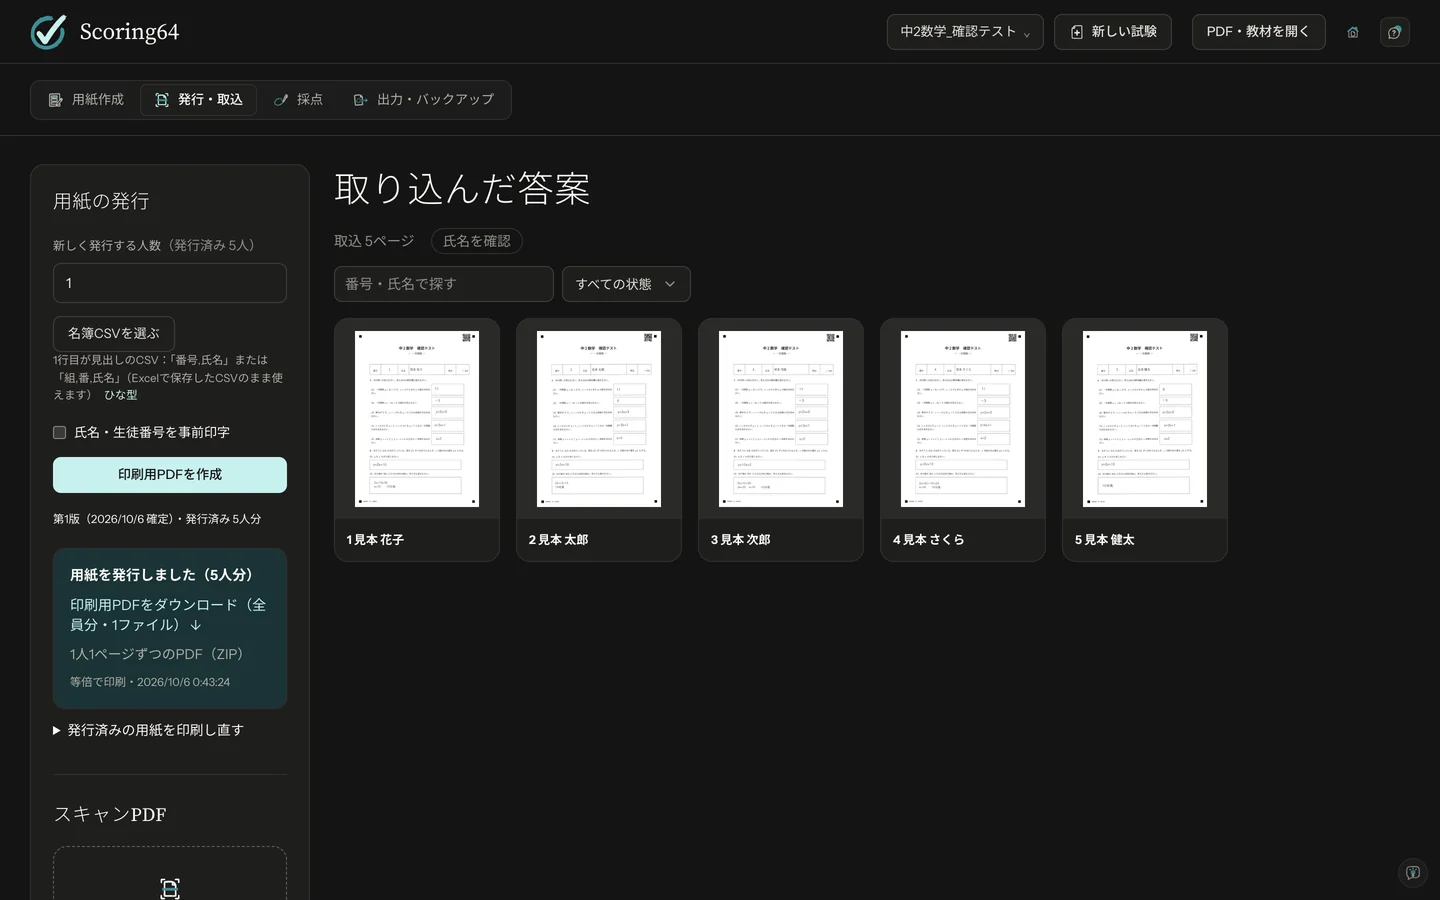
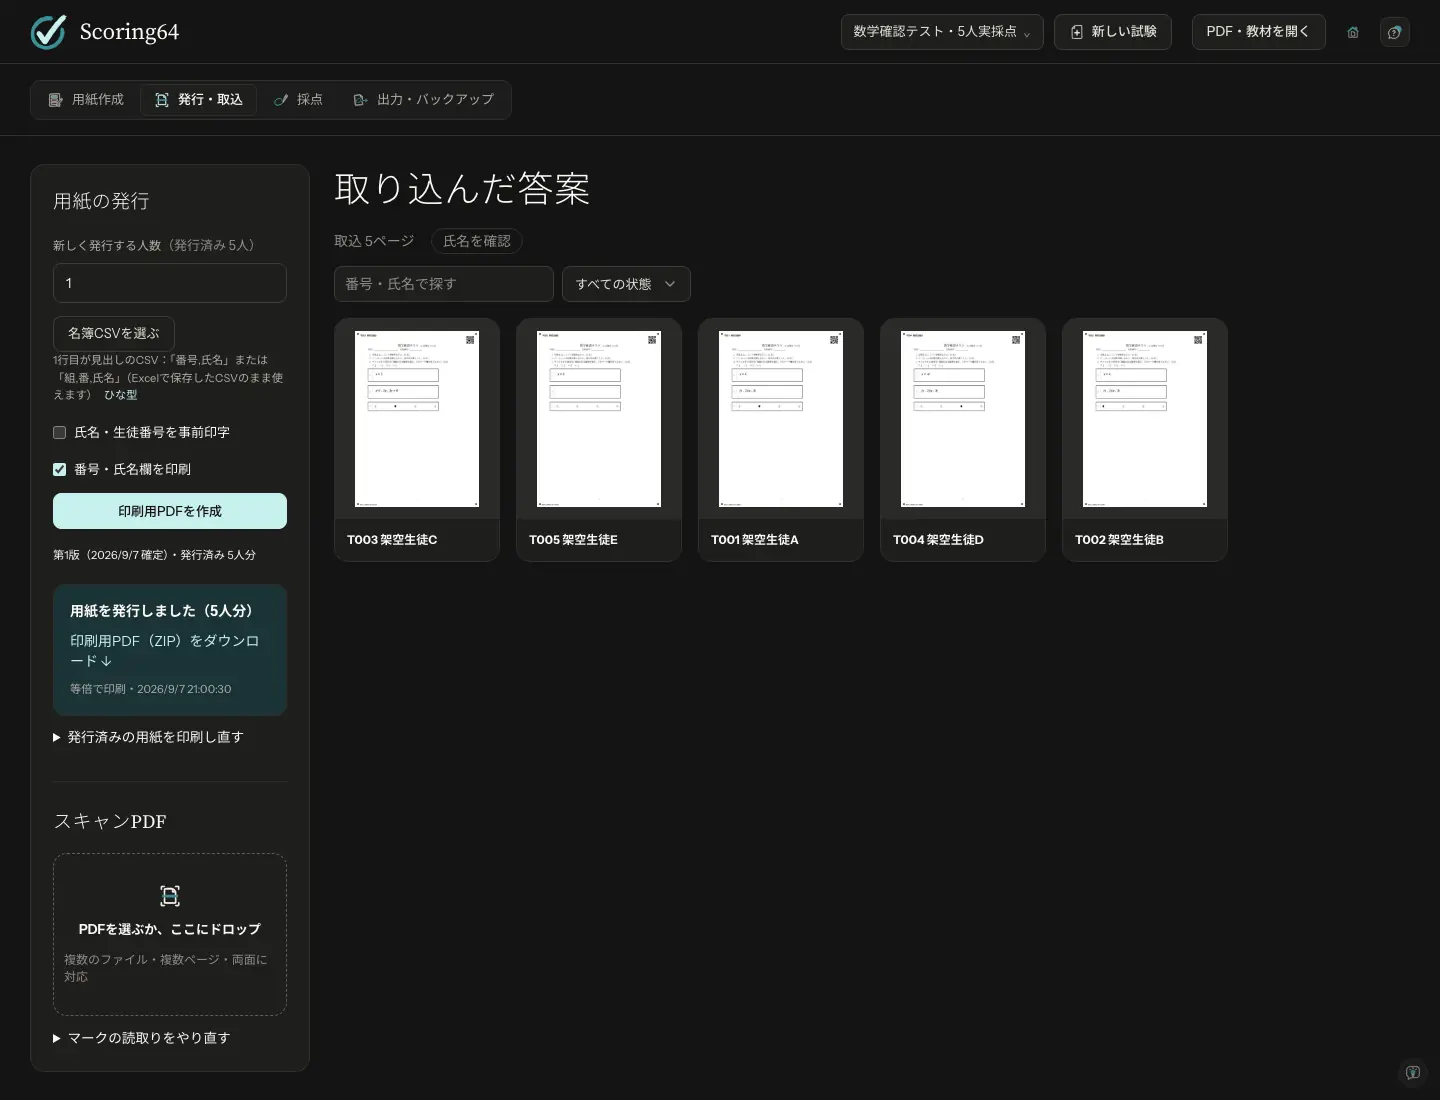
Step 4 の図6を撮り直し、スキャンPDFの投入欄まで写す
1440×900 では左の「スキャンPDF」の欄が画面の下で切れていたため、
1440×1100 で撮り直した。

diff --git a/guide.html b/guide.html
@@ -222,7 +222,7 @@
       </div>
       <div class="media">
       <figure class="shot wide">
-        <a class="zoom" href="assets/img/s09-scan.webp"><img src="assets/img/s09-scan.webp" width="1440" height="900" loading="lazy" alt="発行・取込のタブ。左に用紙の発行とスキャンPDFの取り込み、右に取り込んだ5人分の答案が並ぶ"></a>
+        <a class="zoom" href="assets/img/s09-scan.webp"><img src="assets/img/s09-scan.webp" width="1440" height="1100" loading="lazy" alt="発行・取込のタブ。左に用紙の発行と、PDFを選ぶかドロップするスキャンPDFの欄、右に取り込んだ5人分の答案が並ぶ"></a>
         <figcaption><span class="fig-no">図 6</span>発行・取込のタブ。左で発行し、右で取り込んだ答案を確かめます</figcaption>
       </figure>
       </div>
